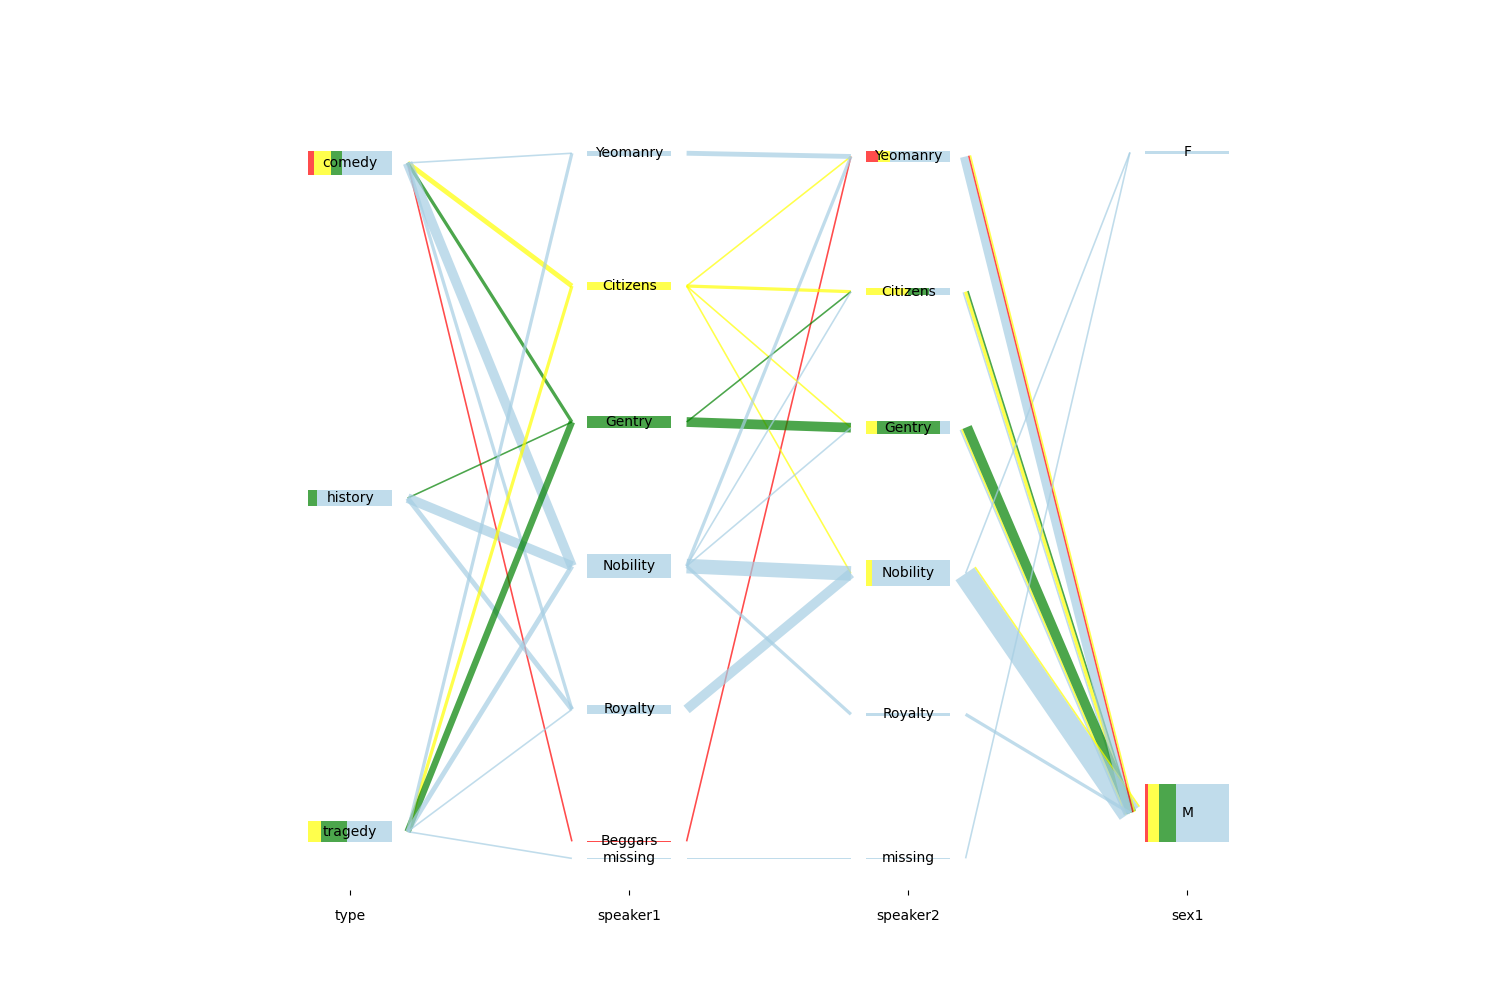
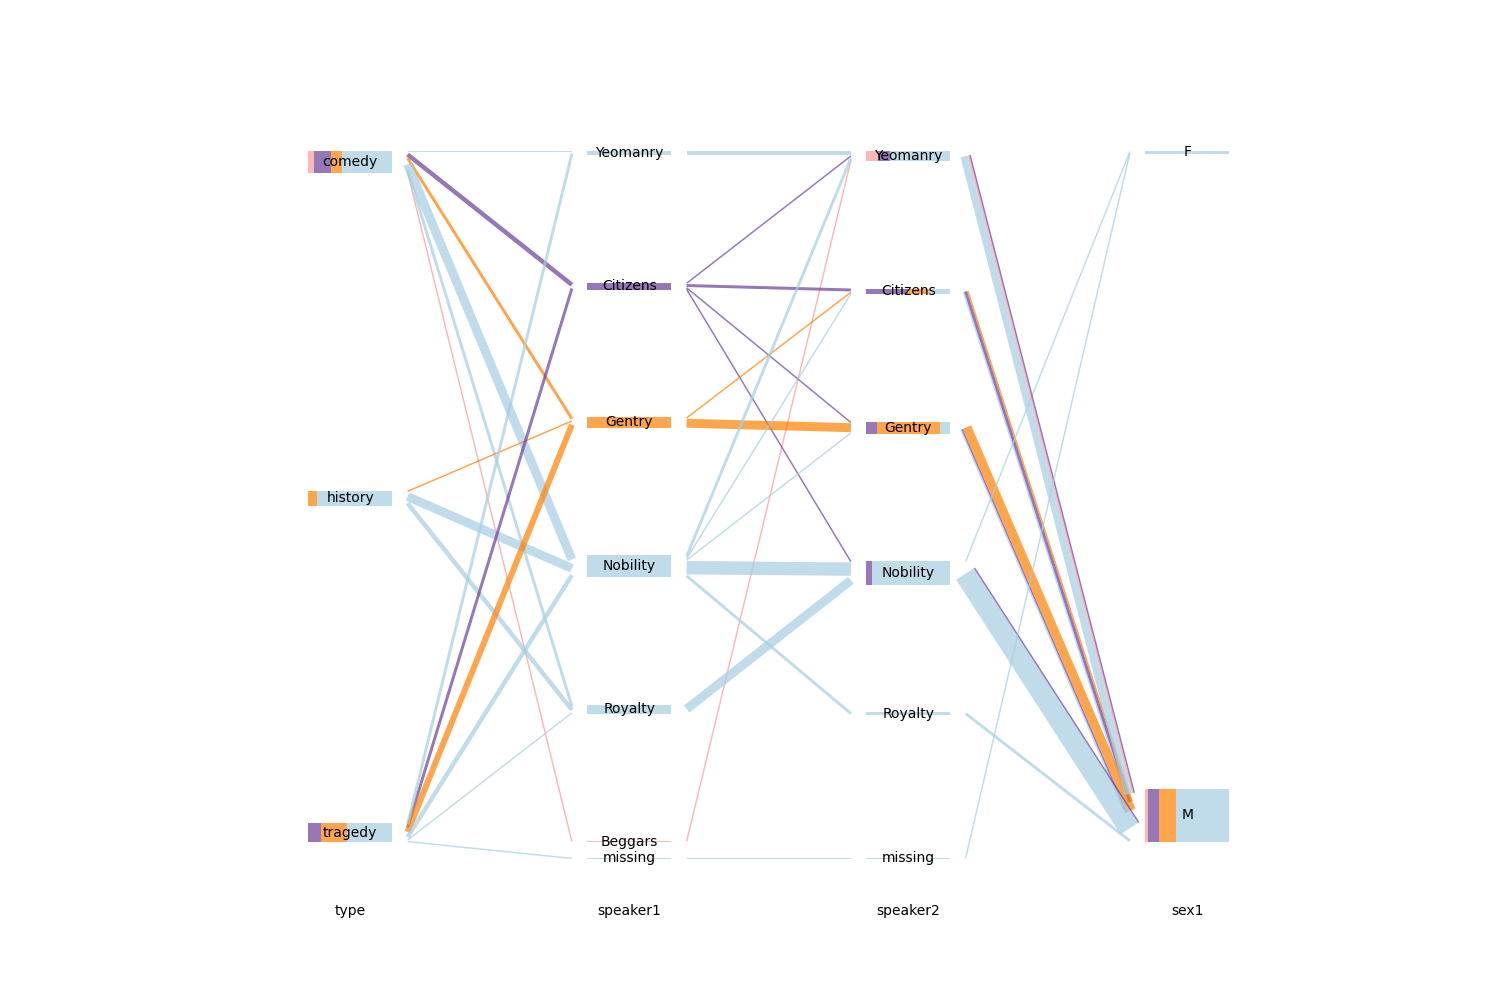
update readme highlighting colours

diff --git a/hammock_plot/utils.py b/hammock_plot/utils.py
@@ -10,7 +10,7 @@ class Defaults:
     MISSING_PLACEHOLDER: str = "missing"
 
     # Colours
-    COLORS: list = ["#e31a1c", "#33a02c", "#fb9a99", "#33a02c", "#b2df8a", "#ff7f00", "#fdbf6f", "#6a3d9a", "#cab2d6", "#b15928", "#1f78b4"]
+    COLORS: list = ["#e31a1c", "#fb9a99", "#33a02c", "#b2df8a", "#ff7f00", "#fdbf6f", "#6a3d9a", "#cab2d6", "#b15928", "#1f78b4"]
     DEFAULT_COLOR: str = "#a6cee3"
 
     # Layout

diff --git a/README.md b/README.md
@@ -116,7 +116,7 @@ df = pd.read_csv('./data/data_shakespeare.csv')
 We use `speaker_dict` to map the values of the variables `speaker1` and `speaker2` according to the social class hierarchy.
 ```python
 var_lst = ["type","speaker1","speaker2","sex1"]
-color_lst = ["red","yellow","green"]
+color_lst = ["#fb9a99","#6a3d9a","#ff7f00"]
 hi_value = ["Beggars","Citizens","Gentry"]
 
 speaker_order=["Beggars", "Royalty", "Nobility", "Gentry", "Citizens", "Yeomanry"]
